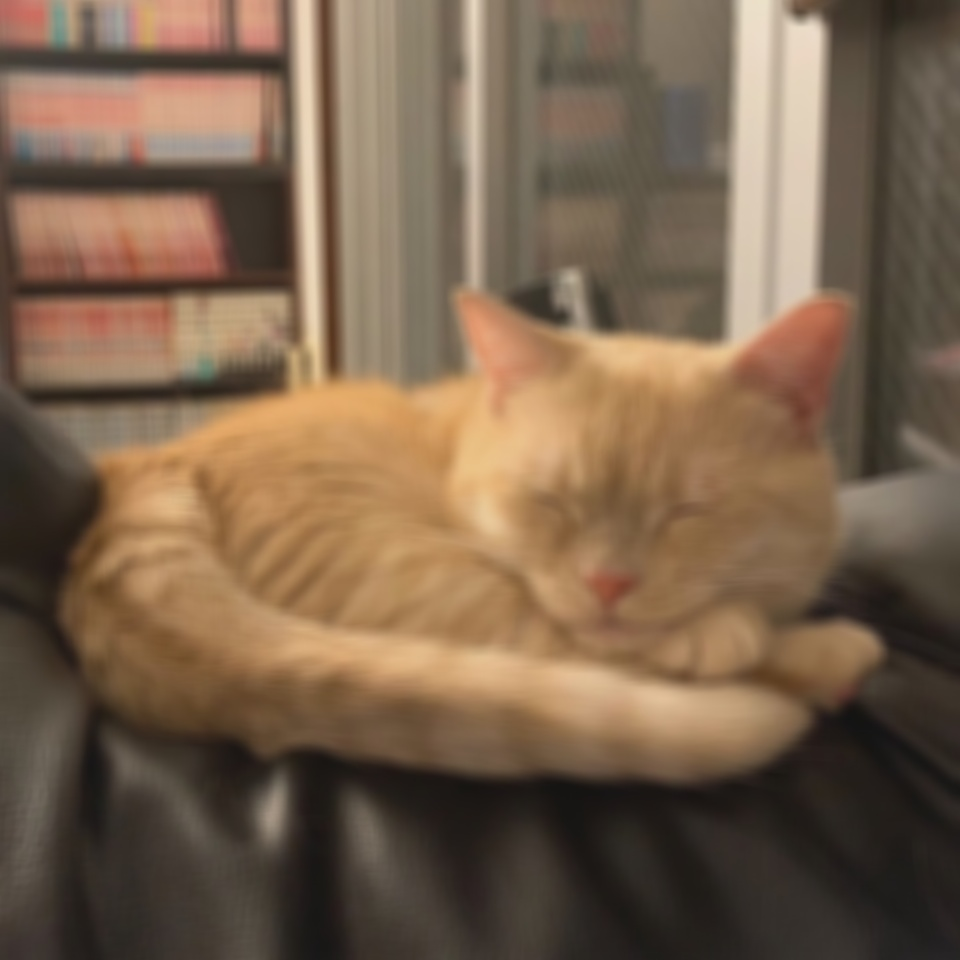
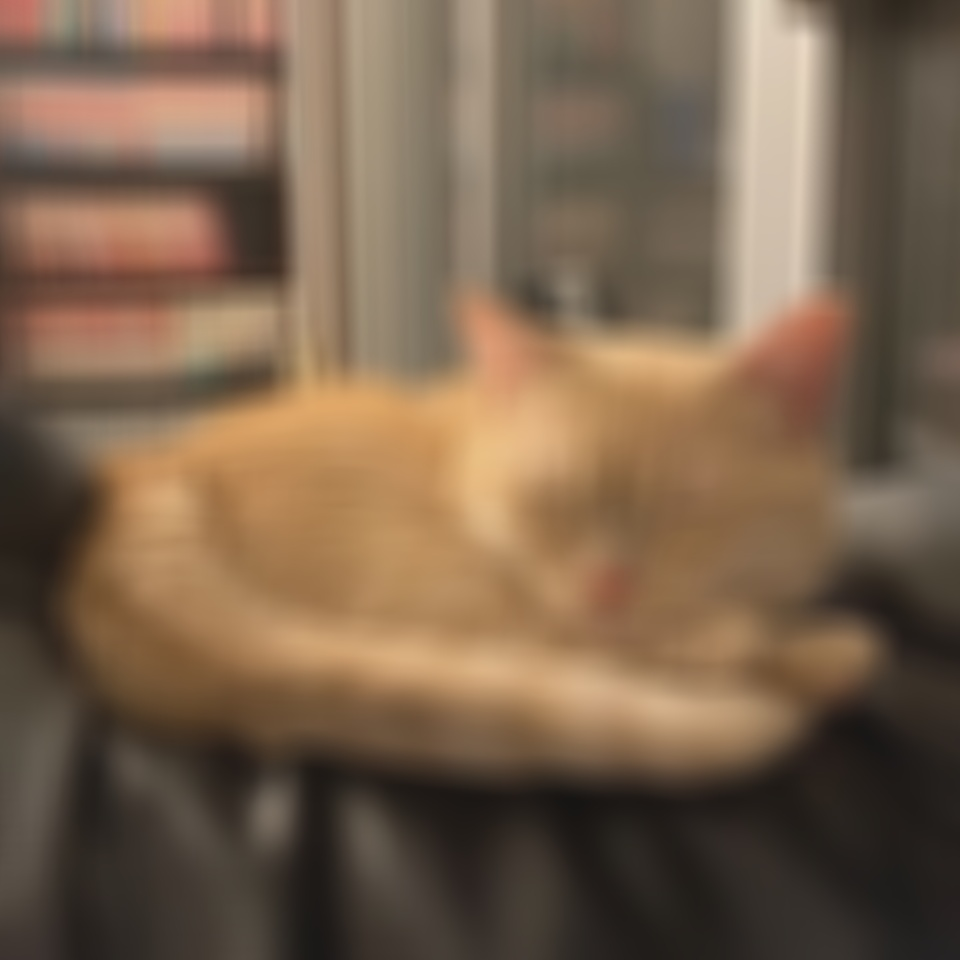
small changes

diff --git a/lab3/filter.cpp b/lab3/filter.cpp
@@ -23,12 +23,12 @@ void applyBlurFilter(const Mat &inputImage, Mat &outputImage, int kernelSize)
 	const int radius = kernelSize / 2;
 	outputImage.create(inputImage.size(), inputImage.type());
 
-	#pragma omp parallel for collapse(2) schedule(dynamic)
+	#pragma omp parallel for collapse(2)
 	for (int y = 0; y < inputImage.rows; ++y)
 	{
 		for (int x = 0; x < inputImage.cols; ++x)
 		{
-			Vec3f sum(0, 0, 0);
+			Vec<float, 3> sum(0, 0, 0);
 			int count = 0;
 
 			// Обработка окрестности пикселя
